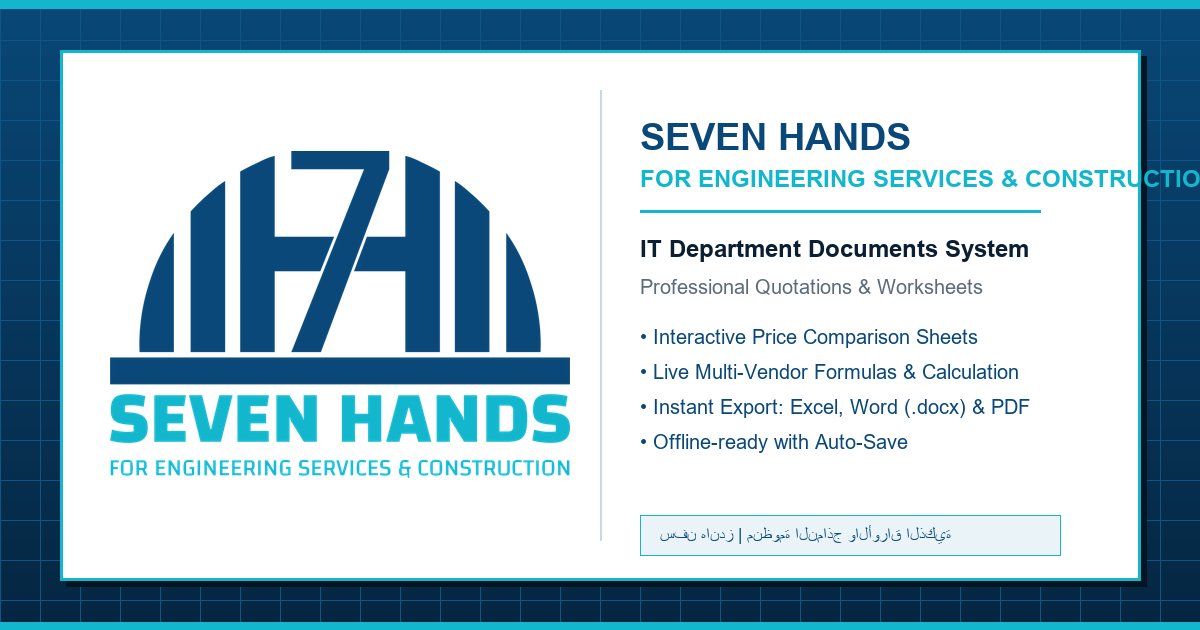
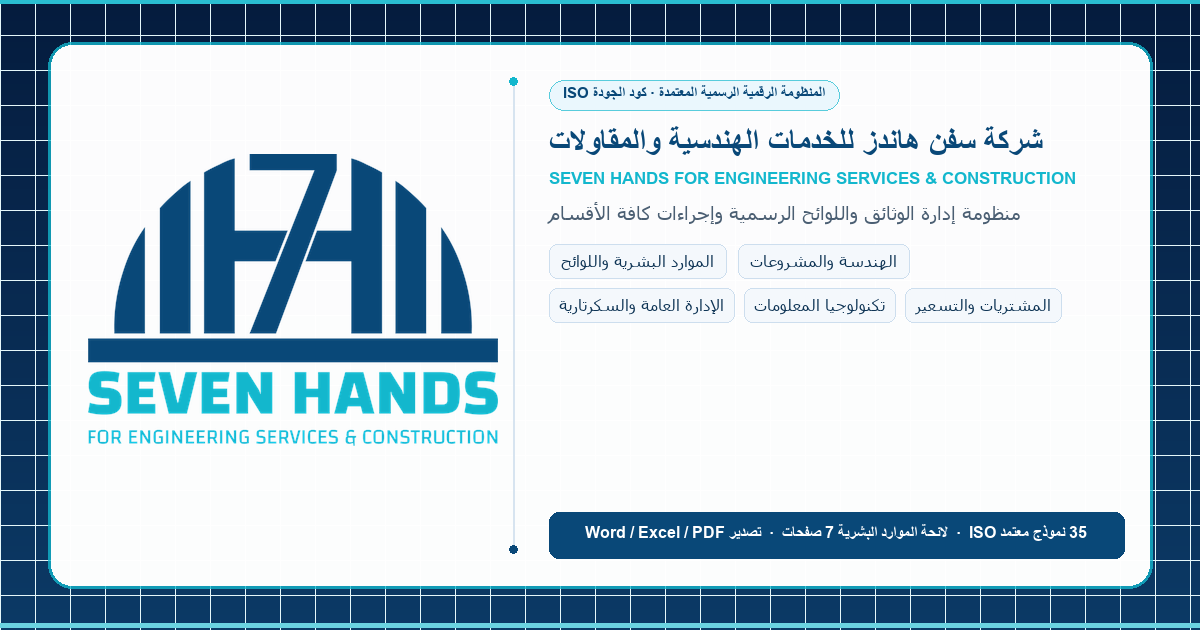
feat(branding): update system name to SEVEN HANDS and corporate preview card

diff --git a/index.html b/index.html
@@ -3,38 +3,38 @@
 <head>
 <meta charset="utf-8">
 <meta name="viewport" content="width=device-width, initial-scale=1, viewport-fit=cover">
-<title>SEVEN HANDS Docs | محرر المستندات والقوالب الهندسية</title>
-<meta name="title" content="SEVEN HANDS Docs | محرر المستندات والقوالب الهندسية">
-<meta name="description" content="منظومة إعداد وتوثيق عروض الأسعار، مقارنة الأسعار، طلبات الشراء، ونماذج تكنولوجيا المعلومات - سفن هاندز للخدمات الهندسية والمقاولات.">
-<meta name="keywords" content="سفن هاندز, Seven Hands, قوالب هندسية, عروض أسعار, مقارنة أسعار, مول البستان, IT Worksheets, Excel, Word, PDF">
-<meta name="author" content="SEVEN HANDS - IT Department">
+<title>شركة سفن هاندز للخدمات الهندسية والمقاولات | SEVEN HANDS</title>
+<meta name="title" content="شركة سفن هاندز للخدمات الهندسية والمقاولات | SEVEN HANDS">
+<meta name="description" content="المنظومة الرقمية المعتمدة لشركة سفن هاندز للخدمات الهندسية والمقاولات: إدارة النماذج الرسمية، اللائحة الداخلية وسياسات الموارد البشرية، طلبات الشراء، عروض ومقارنة الأسعار، وأوراق عمل كافة أقسام الشركة.">
+<meta name="keywords" content="سفن هاندز, Seven Hands, سفن هاندز للخدمات الهندسية والمقاولات, لوائح الموارد البشرية, قوالب هندسية, عروض أسعار, مقارنة أسعار, طلبات شراء, إدارة العمليات, Engineering Services and Construction, Egypt">
+<meta name="author" content="SEVEN HANDS For Engineering Services & Construction">
 
 <link rel="canonical" href="https://sevenhands-eta.vercel.app/">
 
 <!-- WhatsApp & Open Graph Metadata -->
 <meta property="og:type" content="website">
 <meta property="og:url" content="https://sevenhands-eta.vercel.app/">
-<meta property="og:site_name" content="SEVEN HANDS FOR ENGINEERING SERVICES & CONSTRUCTION">
-<meta property="og:title" content="SEVEN HANDS Docs | محرر المستندات والقوالب الهندسية">
-<meta property="og:description" content="منظومة متقدمة لإعداد ومقارنة عروض الأسعار، طلبات الشراء، ونماذج الفحص لقسم تكنولوجيا المعلومات - سفن هاندز للخدمات الهندسية والمقاولات.">
+<meta property="og:site_name" content="شركة سفن هاندز للخدمات الهندسية والمقاولات | SEVEN HANDS">
+<meta property="og:title" content="شركة سفن هاندز للخدمات الهندسية والمقاولات | SEVEN HANDS">
+<meta property="og:description" content="المنظومة الرقمية المعتمدة لإدارة وتوثيق النماذج واللوائح الرسمية، طلبات الشراء، عروض ومقارنة الأسعار، وأوراق عمل كافة أقسام الشركة - سفن هاندز للخدمات الهندسية والمقاولات.">
 <meta property="og:image" content="https://sevenhands-eta.vercel.app/og-image.png">
 <meta property="og:image:secure_url" content="https://sevenhands-eta.vercel.app/og-image.png">
 <meta property="og:image:type" content="image/png">
 <meta property="og:image:width" content="1200">
 <meta property="og:image:height" content="630">
-<meta property="og:image:alt" content="SEVEN HANDS Engineering Services & Construction">
+<meta property="og:image:alt" content="شركة سفن هاندز للخدمات الهندسية والمقاولات - SEVEN HANDS For Engineering Services & Construction">
 
 <!-- Twitter Cards -->
 <meta name="twitter:card" content="summary_large_image">
 <meta name="twitter:url" content="https://sevenhands-eta.vercel.app/">
-<meta name="twitter:title" content="SEVEN HANDS Docs | محرر المستندات والقوالب الهندسية">
-<meta name="twitter:description" content="منظومة إعداد وتوثيق عروض الأسعار ونماذج تكنولوجيا المعلومات - سفن هاندز للخدمات الهندسية والمقاولات.">
+<meta name="twitter:title" content="شركة سفن هاندز للخدمات الهندسية والمقاولات | SEVEN HANDS">
+<meta name="twitter:description" content="المنظومة الرقمية المعتمدة لإدارة وتوثيق النماذج واللوائح الرسمية، طلبات الشراء، عروض الأسعار، وأوراق عمل كافة أقسام شركة سفن هاندز للخدمات الهندسية والمقاولات.">
 <meta name="twitter:image" content="https://sevenhands-eta.vercel.app/og-image.png">
 
 <!-- WhatsApp thumbnail fallbacks -->
 <link rel="image_src" href="https://sevenhands-eta.vercel.app/og-image.png">
-<meta itemprop="name" content="SEVEN HANDS Docs">
-<meta itemprop="description" content="منظومة إعداد وتوثيق عروض الأسعار ونماذج تكنولوجيا المعلومات">
+<meta itemprop="name" content="شركة سفن هاندز للخدمات الهندسية والمقاولات | SEVEN HANDS">
+<meta itemprop="description" content="المنظومة الرقمية المعتمدة لإدارة وتوثيق النماذج واللوائح الرسمية، طلبات الشراء، عروض الأسعار، وأوراق عمل كافة أقسام شركة سفن هاندز">
 <meta itemprop="image" content="https://sevenhands-eta.vercel.app/og-image.png">
 <meta name="theme-color" content="#094878">
 
@@ -78,7 +78,7 @@
       <div class="loader-brand-sub">FOR ENGINEERING SERVICES & CONSTRUCTION</div>
       <div class="loader-badge">
         <span class="badge-dot"></span>
-        <span id="loaderDeptLabel">IT Department · Documents System</span>
+        <span id="loaderDeptLabel">المنظومة الرقمية المعتمدة · كافة الأقسام</span>
       </div>
     </div>
 
@@ -109,8 +109,8 @@
   <div class="brand" id="brandHeaderLink" role="button" tabindex="0" title="العودة للرئيسية">
     <img src="logo.png" alt="SEVEN HANDS Engineering Services & Construction">
     <div>
-      <b id="appTitle">SEVEN HANDS Docs</b>
-      <small id="appSub">سفن هاندز | قسم تكنولوجيا المعلومات</small>
+      <b id="appTitle">سفن هاندز للخدمات الهندسية والمقاولات</b>
+      <small id="appSub">المنظومة الرقمية المعتمدة للوثائق واللوائح</small>
     </div>
   </div>
   <div class="hacts">
@@ -222,7 +222,7 @@
           <small id="waDocSub">إرسال رابط الورقة الحالية مباشرة للزملاء</small>
         </div>
       </a>
-      <a id="waShareSiteLink" href="https://api.whatsapp.com/send?text=%D9%85%D9%86%D8%B8%D9%88%D9%85%D8%A9%20%D8%B3%D9%81%D9%86%20%D9%87%D8%A7%D9%86%D8%AF%D8%B2%20%D9%84%D9%84%D9%86%D9%85%D8%A7%D8%B0%D8%AC%20%D9%88%D8%A7%D9%84%D8%A3%D9%88%D8%B1%D8%A7%D9%82%20%D8%A7%D9%84%D9%87%D9%86%D8%AF%D8%B3%D9%8A%D8%A9%20-%20SEVEN%20HANDS%20Docs" class="wa-menu-item" target="_blank" rel="noopener">
+      <a id="waShareSiteLink" href="https://api.whatsapp.com/send?text=%D8%B4%D8%B1%D9%83%D8%A9%20%D8%B3%D9%81%D9%86%20%D9%87%D8%A7%D9%86%D8%AF%D8%B2%20%D9%84%D9%84%D8%AE%D8%AF%D9%85%D8%A7%D8%AA%20%D8%A7%D9%84%D9%87%D9%86%D8%AF%D8%B3%D9%8A%D8%A9%20%D9%88%D8%A7%D9%84%D9%85%D9%82%D8%A7%D9%88%D9%84%D8%A7%D8%AA%20-%20%D8%A7%D9%84%D9%85%D9%86%D8%B8%D9%88%D9%85%D8%A9%20%D8%A7%D9%84%D8%B1%D9%82%D9%85%D9%8A%D8%A9%20%D8%A7%D9%84%D9%85%D8%B9%D8%AA%D9%85%D8%AF%D8%A9%20%D9%84%D9%84%D9%88%D8%AB%D8%A7%D8%A6%D9%82%20%D9%88%D8%A7%D9%84%D9%84%D9%88%D8%A7%D8%A6%D8%AD%3A%20https%3A%2F%2Fsevenhands-eta.vercel.app%2F" class="wa-menu-item" target="_blank" rel="noopener">
         <div class="wa-item-icon">🌐</div>
         <div class="wa-item-text">
           <strong id="waSiteTitle">مشاركة رابط المنظومة</strong>

diff --git a/app.js b/app.js
@@ -8,8 +8,8 @@
 
   const STR = {
     ar: {
-      app: "محرر الأوراق والقوالب الهندسية",
-      sub: "سفن هاندز | قسم تكنولوجيا المعلومات",
+      app: "سفن هاندز للخدمات الهندسية والمقاولات",
+      sub: "المنظومة الرقمية المعتمدة للوثائق واللوائح",
       newFrom: "ابدأ من النماذج المعتمدة",
       saved: "أوراقي ومستنداتي المحفوظة",
       none: "لا توجد أوراق محفوظة بعد. اختر قالباً من الأعلى للبدء فوراً.",
@@ -128,8 +128,8 @@
       allDepts: "كافة الأقسام"
     },
     en: {
-      app: "Engineering Documents & Templates Editor",
-      sub: "SEVEN HANDS | IT Department",
+      app: "SEVEN HANDS For Engineering Services & Construction",
+      sub: "Corporate Engineering Documents & Operations Portal",
       newFrom: "Start from Approved Templates",
       saved: "My Saved Documents & Worksheets",
       none: "Nothing saved yet. Select a template above to start immediately.",
@@ -334,6 +334,9 @@
   function applyUI() {
     document.documentElement.lang = ui;
     document.documentElement.dir = ui === "ar" ? "rtl" : "ltr";
+    document.title = ui === "ar"
+      ? (cur ? (cur.name || cur.title) + " | سفن هاندز للخدمات الهندسية والمقاولات" : "شركة سفن هاندز للخدمات الهندسية والمقاولات | SEVEN HANDS")
+      : (cur ? (cur.name || cur.title) + " | SEVEN HANDS For Engineering Services & Construction" : "SEVEN HANDS For Engineering Services & Construction");
     $("#appTitle").textContent = t("app");
     $("#appSub").textContent = t("sub");
     $("#uiLang").textContent = ui === "ar" ? "EN" : "عربي";
@@ -436,9 +439,9 @@
     const currentUrl = getLiveUrl();
     if (cur) {
       const docCode = cur.docNumber ? ` [${cur.docNumber}]` : "";
-      const docName = (cur.name || cur.title || (ui === "ar" ? "ورقة عمل" : "Document")) + docCode;
+      const docName = (cur.name || cur.title || (ui === "ar" ? "وثيقة رسمية" : "Document")) + docCode;
       const msg = encodeURIComponent(
-        (ui === "ar" ? "ورقة عمل هندسية من سفن هاندز: " : "Seven Hands Engineering Document: ") +
+        (ui === "ar" ? "وثيقة رسمية معتمدة من شركة سفن هاندز: " : "Official Document from SEVEN HANDS: ") +
         docName + "\n" + currentUrl
       );
       waShareDocLink.href = "https://api.whatsapp.com/send?text=" + msg;
@@ -447,8 +450,8 @@
     } else {
       const msg = encodeURIComponent(
         (ui === "ar"
-          ? "منظومة سفن هاندز للنماذج الهندسية وأوراق عمل تكنولوجيا المعلومات:\n"
-          : "Seven Hands Engineering Docs & IT Templates System:\n") + currentUrl
+          ? "شركة سفن هاندز للخدمات الهندسية والمقاولات - المنظومة الرقمية المعتمدة للوثائق واللوائح:\n"
+          : "SEVEN HANDS For Engineering Services & Construction - Corporate Operations Portal:\n") + currentUrl
       );
       waShareDocLink.href = "https://api.whatsapp.com/send?text=" + msg;
       if (waDocTitle) waDocTitle.textContent = ui === "ar" ? "مشاركة رابط المنظومة" : "Share System Link";
@@ -1187,6 +1190,9 @@
 
   /* ---------- Home View with Interactive Search & Filters ---------- */
   function renderHome() {
+    document.title = ui === "ar"
+      ? "شركة سفن هاندز للخدمات الهندسية والمقاولات | SEVEN HANDS"
+      : "SEVEN HANDS For Engineering Services & Construction";
     $("#editor").hidden = true;
     $("#home").hidden = false;
     $("#homeBtn").hidden = true;
@@ -1606,6 +1612,8 @@
   }
 
   function renderEditor() {
+    document.title = (cur.name || cur.title || (ui === "ar" ? "وثيقة رسمية" : "Document")) +
+      (ui === "ar" ? " | سفن هاندز للخدمات الهندسية والمقاولات" : " | SEVEN HANDS");
     $("#home").hidden = true;
     $("#editor").hidden = false;
     $("#homeBtn").hidden = false;
@@ -2196,9 +2204,9 @@
     // Direct WhatsApp Sharing
     if (kind === "wa") {
       const currentUrl = getLiveUrl();
-      const docName = cur.name || cur.title || (ui === "ar" ? "وثيقة عمل" : "Worksheet");
+      const docName = cur.name || cur.title || (ui === "ar" ? "وثيقة رسمية" : "Official Document");
       const msg = encodeURIComponent(
-        (ui === "ar" ? "ورقة عمل من سفن هاندز: " : "Seven Hands IT Worksheet: ") +
+        (ui === "ar" ? "وثيقة رسمية معتمدة من شركة سفن هاندز للخدمات الهندسية والمقاولات: " : "Official Document - SEVEN HANDS Engineering Services & Construction: ") +
         docName + "\n" + currentUrl
       );
       window.open("https://api.whatsapp.com/send?text=" + msg, "_blank");

diff --git a/README.md b/README.md
@@ -1,14 +1,19 @@
-# SEVEN HANDS Docs
+# شركة سفن هاندز للخدمات الهندسية والمقاولات
+## SEVEN HANDS For Engineering Services & Construction
 
 🔗 **Live Deployment**: [https://sevenhands-eta.vercel.app/](https://sevenhands-eta.vercel.app/)  
 📦 **GitHub Repository**: [https://github.com/29SalahMo/SevenHands](https://github.com/29SalahMo/SevenHands)
 
-محرر قوالب وأوراق عمل (عربي/English) لقسم تكنولوجيا المعلومات في شركة **سفن هاندز للخدمات الهندسية والمقاولات**.  
-Interactive worksheet & template editor for engineering IT work: price comparison sheets, quotations, RFQs, purchase requests, inventory and survey forms.
+المنظومة الرقمية الرسمية المعتمدة لشركة **سفن هاندز للخدمات الهندسية والمقاولات** لإدارة وتوثيق النماذج واللوائح، أوراق العمل، عروض ومقارنة الأسعار، وطلبات الشراء لكافة أقسام الشركة.  
+Comprehensive Enterprise Operations, Documents, ISO Templates & Bylaws Portal for **SEVEN HANDS For Engineering Services & Construction**.
 
-## Features
+## Key Features
+- **Corporate Department Partitions**: Dedicated workspace partitions for **Engineering & Projects**, **Human Resources & Bylaws**, **Procurement & Pricing**, **IT Operations**, and **Executive Management & Secretary**.
+- **Interactive HR Bylaws Reader**: Complete 7-page interactive digitization of the official SEVEN HANDS HR Policy with search, article tabs, and instant print.
+- **35 Approved ISO Templates**: Full library of official company forms with unified ISO headers (`F-08/10 A/B/C`, retention 3 years, release date 01/10/2024, revision 1/0) for leaves, permissions, overtime sheets (1.4x), attendance rosters, resignation clearance, purchase orders, and technical handovers.
+- **Central Document Registry**: Auto-generated corporate document serial numbering (`SH-DOC-2026-XXXX`).
 - **Interactive Routing & Navigation**: Full browser back/forward and mobile swipe support between sheets and the template library.
-- **WhatsApp & Social Cards**: Rich link preview with official branding and 1-click WhatsApp document sharing.
+- **WhatsApp & Social Cards**: Rich 1200x630 link preview with official branding and 1-click WhatsApp document sharing.
 - **Interactive Preloader**: High-tech engineering loading screen with smooth progress, status updates, and instant skip controls.
 - **Live Search & Filter**: Real-time keyword search and category pills across templates and saved sheets.
 - **Live Calculation Engine**: Real-time formula calculations (`qty*price`, `MIN(sig,nek,bos)`, `SUM`) with visual reactive pulse feedback.
